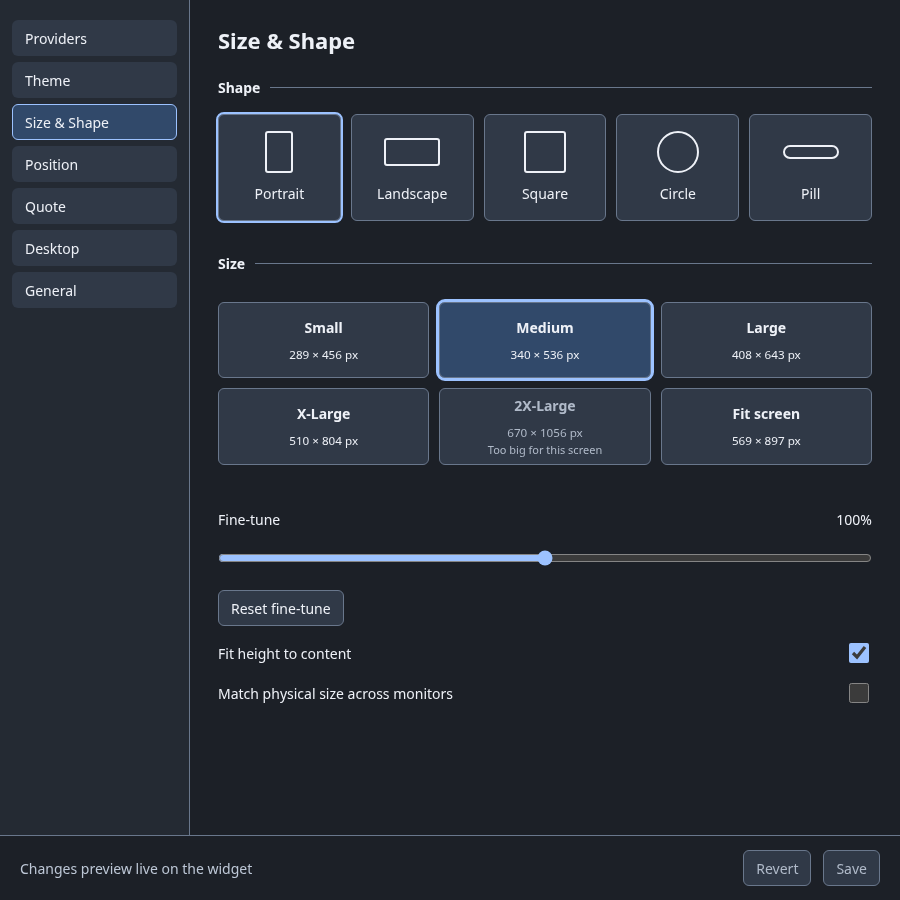
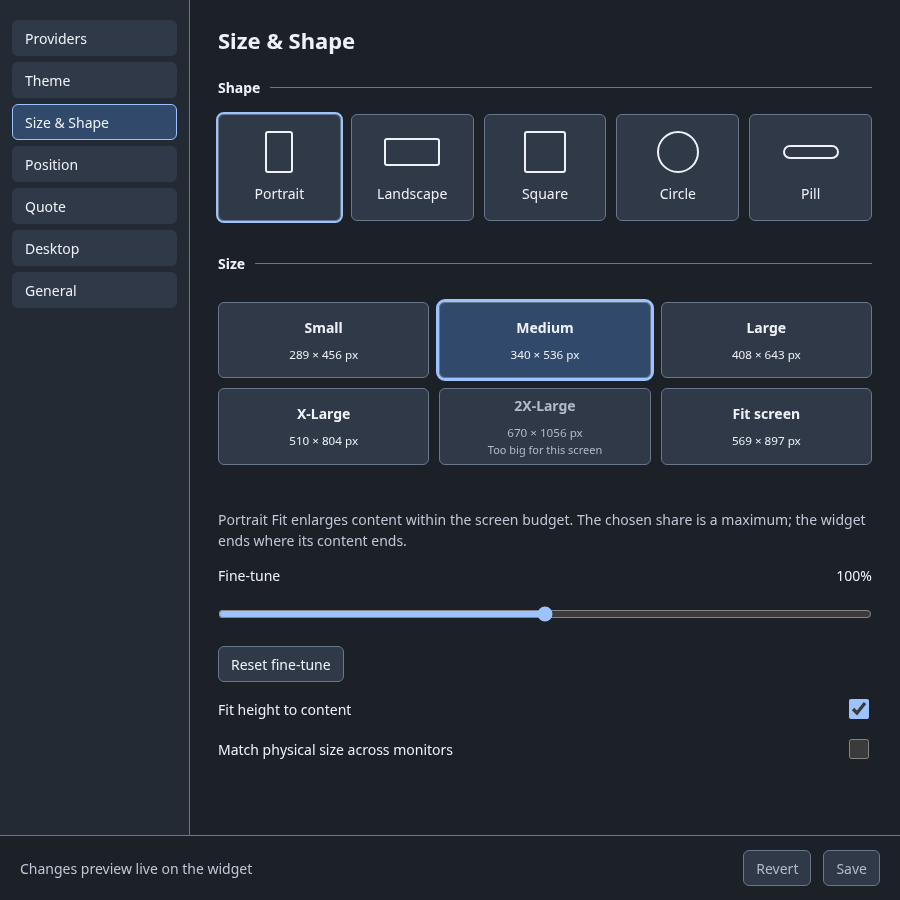
fix(portrait): size cards to content so the gaps go away

Changed region(s): [[0.2178, 0.56, 0.9644, 0.84], [0.9333, 0.7156, 0.9644, 0.84]]

diff --git a/app/src/usage-fit.js b/app/src/usage-fit.js
@@ -1,6 +1,6 @@
 const overflows = card => card.scrollHeight > card.clientHeight || card.scrollWidth > card.clientWidth;
 
-// Refit only overflowing cards. Layout budgets and cards that already fit stay intact.
+// Observe content and font changes; Portrait also grows within existing type tiers.
 export function observeUsageFit(root) {
   let frame = 0;
   const fit = () => {
@@ -23,10 +23,13 @@ export function fitUsage(root) {
   }
   // Recompute from authored styles after viewport, theme, quote or font changes.
   root.style.removeProperty('grid-template-rows');
+  root.style.setProperty('--portrait-growth', 0);
   root.style.removeProperty('padding-bottom');
   for (const card of cards) {
     delete card.dataset.usageCompact;
     card.style.removeProperty('padding-bottom');
+    if (document.documentElement.dataset.shape === 'portrait') card.style.removeProperty('min-height');
+    if (document.documentElement.dataset.shape === 'portrait') for (const ring of card.querySelectorAll('.ring-display')) ring.style.removeProperty('height');
   }
   // The scale changes geometry, but readable text has a physical 11px floor.
   for (const el of root.closest('.widget').querySelectorAll('*')) {
@@ -35,30 +38,55 @@ export function fitUsage(root) {
       el.style.fontSize = '11px';
     }
   }
-  donateFeaturedSpace(root, cards);
+  if (document.documentElement.dataset.shape === 'portrait') {
+    const columns = getComputedStyle(root).gridTemplateColumns.split(' ').length;
+    const grid = getComputedStyle(root).display === 'grid';
+    const rows = grid ? Math.ceil(cards.length / columns) : 1;
+    root.style.setProperty('--portrait-card-limit', `calc(${grid ? cards.length : 1} * (var(--size-card) + var(--size-gap)) / ${Math.max(1, rows)} - var(--size-gap))`);
+  } else {
+    root.style.removeProperty('--portrait-card-limit');
+  }
   // Fractional rem budgets can round scrollHeight up while clientHeight rounds down.
   // Remove that rounding debt from trailing space, preserving every card's height.
   const debt = root.scrollHeight - root.clientHeight;
   const padding = parseFloat(getComputedStyle(root).paddingBottom);
   if (debt > 0 && debt <= padding) root.style.paddingBottom = `${padding - debt}px`;
+  cards.forEach(fitPortraitGraphics);
   cards.forEach(compactCard);
+  growPortraitContent(root, cards);
   fitHeader(root.closest('.widget'));
 }
 
-function donateFeaturedSpace(root, cards) {
-  // An odd portrait grid donates only the featured row's unused vertical space.
-  const hero = cards.find(card => card.classList.contains('featured-provider'));
-  if (hero && cards.length === 3 && document.documentElement.dataset.shape === 'portrait' && getComputedStyle(root).display === 'grid' && getComputedStyle(root).gridTemplateColumns.split(' ').length === 2) {
-    const paired = cards.filter(card => card !== hero);
-    const shortage = Math.max(0, ...paired.map(card => card.scrollHeight - card.clientHeight));
-    if (shortage) {
-      const height = hero.getBoundingClientRect().height;
-      const first = Math.max(0, height - shortage);
-      const second = height + shortage;
-      root.style.gridTemplateRows = document.documentElement.dataset.featuredLayout === 'top'
-        ? `${first}px ${second}px` : `${second}px ${first}px`;
-    }
+function growPortraitContent(root, cards) {
+  if (document.documentElement.dataset.portraitFit !== 'true' || !cards.length || root.querySelector('.ring-display')) return;
+  const widget = root.closest('.widget');
+  const fits = () => !overflows(root) && !overflows(widget) && cards.every(card => !overflows(card));
+  root.style.setProperty('--portrait-growth', 1);
+  if (fits()) return;
+  let low=0, high=1;
+  for (let i=0; i<8; i++) {
+    const middle=(low+high)/2;
+    root.style.setProperty('--portrait-growth', middle);
+    if (fits()) low=middle; else high=middle;
   }
+  root.style.setProperty('--portrait-growth', low);
+}
+
+// A constrained grid can overlap its intrinsic graphic without overflowing.
+// Reserve the text rows before sizing graphics, keeping the labels intact.
+function fitPortraitGraphics(card) {
+  if (document.documentElement.dataset.shape !== 'portrait') return;
+  const ring = card.querySelector('.ring-display');
+  if (!ring) return;
+  const style = getComputedStyle(card);
+  const paired = style.gridTemplateColumns.split(' ').length > 1;
+  const outerHeight = el => {const s=getComputedStyle(el);return el.getBoundingClientRect().height + parseFloat(s.marginTop) + parseFloat(s.marginBottom);};
+  const reserved = [...card.children].filter(el => el !== ring && (!paired || !el.classList.contains('windows'))).reduce((sum, el) => sum + outerHeight(el), 0);
+  const labels = [...ring.querySelector('.ring-center').children].reduce((sum, el) => sum + el.getBoundingClientRect().height, 0);
+  const padding = parseFloat(style.paddingTop) + parseFloat(style.paddingBottom);
+  card.style.minHeight = `${reserved + labels + padding + parseFloat(style.borderTopWidth) + parseFloat(style.borderBottomWidth)}px`;
+  const available = card.clientHeight - padding - reserved;
+  ring.style.height = `${Math.max(labels, Math.min(ring.getBoundingClientRect().height, available))}px`;
 }
 
 function compactCard(card) {

diff --git a/app/src/themes/shared/shapes.css b/app/src/themes/shared/shapes.css
@@ -236,3 +236,17 @@
 :root #provider-onboarding .provider-choices{flex:1;min-height:0;max-height:none}
 :root #provider-onboarding .provider-consent-actions{flex:none}
 :root[data-shape=circle] .widget .quote-section{border:0;box-shadow:none}
+
+/* Portrait spends its scale on content, then ends at the intrinsic last row.
+   The old budget remains only an overflow ceiling for the existing fit pass. */
+:root[data-shape=portrait] #widget.widget:has(#provider-onboarding[hidden]){height:auto;max-height:var(--portrait-height-limit,100%)}
+:root[data-shape=portrait] .widget .provider-list{height:auto;flex:0 0 auto;grid-auto-rows:max-content;align-items:start;align-content:start;overflow:hidden}
+:root[data-shape=portrait] .widget .provider-card:nth-child(n){height:auto;min-height:0;max-height:var(--portrait-card-limit);align-self:start;overflow:hidden}
+:root[data-shape=portrait] .widget .provider-heading{min-height:0}
+:root[data-shape=portrait] #widget .provider-card:nth-child(n) .windows{flex:0 0 auto;align-content:start}
+:root[data-shape=portrait] #widget .provider-card:nth-child(n) .quota-window{min-height:0;justify-content:flex-start}
+
+/* Fit promotes the existing number/base type tiers before returning spare height. */
+:root[data-shape=portrait][data-portrait-fit=true] .widget .provider-list{--size-font-number:calc(1.25rem + var(--portrait-growth,0) * 1rem);--size-font-base:calc(.9375rem + var(--portrait-growth,0) * .125rem);--size-gap:calc(.625rem + var(--portrait-growth,0) * .25rem)}
+
+:root[data-shape=portrait] .widget .quote-section{flex:0 1 auto;min-height:10rem}

diff --git a/docs/design-spec.md b/docs/design-spec.md
@@ -279,20 +279,23 @@ Native input regions match the silhouette: Win32 applies physical-pixel ellipse/
 
 ### Daily quote reading and work-area fit
 
-Quote is opt-in. In portrait, enabled quotes use a 320px reading block and
-160px provider cards (170px including the gap), instead of 200px quotes and
-200px cards. Quote-off dimensions and layout remain unchanged. With three
-providers the total remains 946px at 100%. Grid themes share this same budget.
+Quote is opt-in. Portrait retains the 320px reading budget and the existing
+scaled typography and meter tokens. Fit promotes quota numbers up to the existing display tier and headings up to
+the title tier, and increases row spacing only while measured content fits.
+Ring graphics reserve their labels before using remaining height. Provider rows
+and cards use intrinsic content height; the previous 200px (160px with a quote) per-provider budget is
+an overflow ceiling, rather than an instruction to pad every card to that size.
+Grid rows no longer multiply unused height when providers share a row. The quote
+reading budget can yield height to essential card labels. Small
+reclaims the height of hidden secondary chrome. The native portrait window
+requests the measured surface height, including after content grows again.
+
 Usage overflow is measured after rendering and on list resize/font readiness.
-In a three-provider portrait grid, the featured row first donates spare height
-to the paired row. Featured quote content shares spare height between its quota windows.
-Only cards that still overflow compact their internal spacing and then reduce
+Only cards that exceed their ceiling compact internal spacing and then reduce
 text, stopping at 11px (existing smaller labels keep their authored size).
 Dense Minimal Pace cards show the signed percentage-point delta with its
 comparison context in a tooltip. Ring graphics use the remaining cell height.
-This preserves shell dimensions,
-card borders, theme surfaces and cards that already fit. Overflow is never
-fixed by hiding a scrollbar or clipping quota content.
+Other shapes retain their fixed geometry and fitting behavior.
 
 The quote uses normal case and readable body weight; theme signatures remain on
 its label. Attribution is a small, borderless source line near the lower right;
@@ -327,7 +330,9 @@ Fit to screen. It applies only to Portrait, excluding Compact Strip; other
 combinations use their fixed preset while retaining the stored screen mode.
 Full, 3/4, 1/2 and 1/3 target the available height with independent 50–150% fine
 tuning. Width cannot exceed 30% of the available work area. The coverage and
-height limits remain safety nets, preserving aspect ratio. Fit is disabled in
+height limits remain safety nets for scaling content. These fractions are
+maximum height budgets: Portrait enlarges existing text and meters first, then
+ends at its content, so its final height can be shorter. Fit is disabled in
 Settings with “Portrait only” when unavailable, and returns on switching back.
 
 All geometry, the monitor map and fit warnings use only rendered providers
